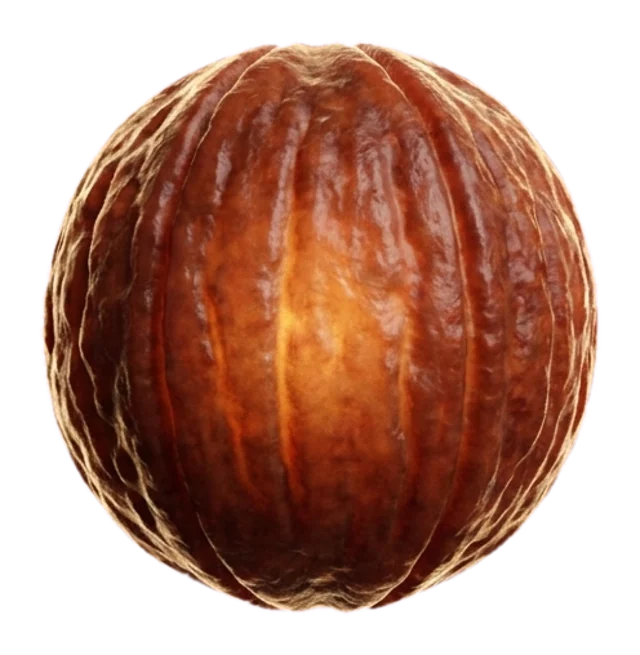
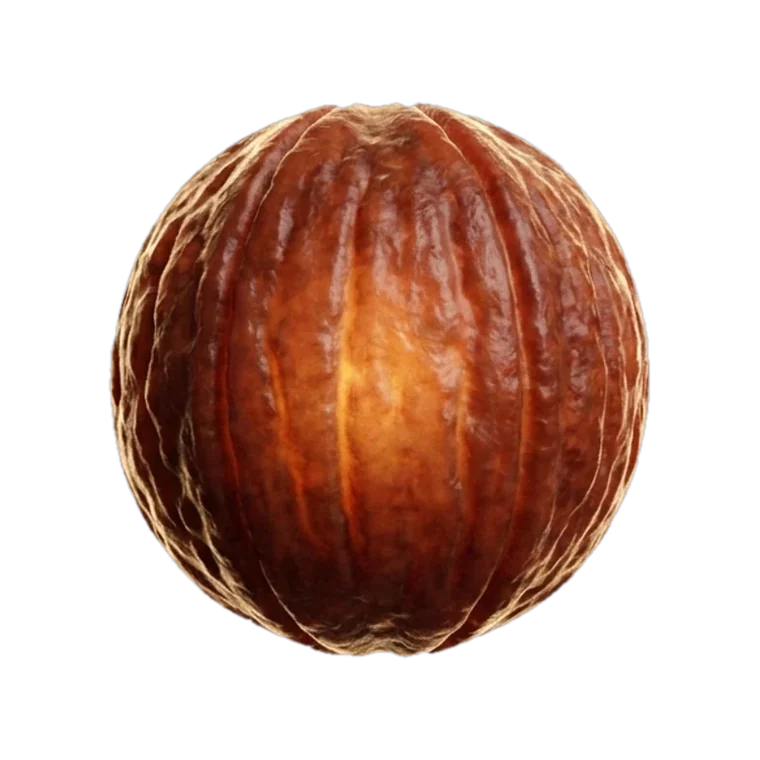
Fix broken collection heroes + size every 3D model uniformly
The crystal/gemstone/anklet collection heroes were hardcoded to
t/7/assets/<name> with a stale ?v= hash. Switching those three files to WebP
pointed them at a path that only exists in t/8, so they 404'd and rendered as
broken-image icons. Added a GAA() resolver that reads the live theme's asset
folder off a stylesheet href and routed those three through it, so they follow
the theme instead of a frozen path.

Model sizing was driven by , which scales on height -
a wide bracelet came out huge while a compact crystal looked tiny, and in the
narrow desktop slats the art overflowed the card. Every model is now re-cut
onto an identical 760x760 transparent canvas with its longest side at 74%, and
the tiles use a padded  box, so all eight read at the same weight in
both layouts. Vertical slat labels moved behind the model and dimmed.

tracking/ untouched.

Claude-Session: https://claude.ai/code/session_012qKNPSvbNoGtkrvu7zovDz

diff --git a/assets/gemsaura-custom.js b/assets/gemsaura-custom.js
@@ -1,5 +1,13 @@
 /* GemsAura hero slideshow + custom hamburger mega-menu (draft) */
 (function(){
+  /* Resolve the CURRENT theme's asset folder (t/7, t/8, ...) at runtime off a
+     stylesheet href. Hardcoding t/7 breaks any asset added to a newer theme. */
+  var GAABASE=(function(){
+    var l=document.querySelector('link[href*="/assets/gemsaura-custom.css"]');
+    return l ? l.href.replace(/assets\/gemsaura-custom\.css.*$/, 'assets/')
+             : 'https://cdn.shopify.com/s/files/1/0627/9849/5847/t/7/assets/';
+  })();
+  function GAA(n){ return GAABASE+n; }
   var D=["https://cdn.shopify.com/s/files/1/0627/9849/5847/t/7/assets/bn-zodiac-d.jpg", "https://cdn.shopify.com/s/files/1/0627/9849/5847/t/7/assets/bn-bracelets-d.jpg", "https://cdn.shopify.com/s/files/1/0627/9849/5847/t/7/assets/bn-rudraksha-d.jpg", "https://cdn.shopify.com/s/files/1/0627/9849/5847/t/7/assets/bn-pendants-d.jpg", "https://cdn.shopify.com/s/files/1/0627/9849/5847/t/7/assets/bn-anklets-d.jpg", "https://cdn.shopify.com/s/files/1/0627/9849/5847/t/7/assets/bn-mani-d.jpg"], M=["https://cdn.shopify.com/s/files/1/0627/9849/5847/t/7/assets/bn-zodiac-m.jpg?v=1789704491", "https://cdn.shopify.com/s/files/1/0627/9849/5847/t/7/assets/bn-bracelets-m.jpg?v=1789704496", "https://cdn.shopify.com/s/files/1/0627/9849/5847/t/7/assets/bn-rudraksha-m.jpg?v=1789704501", "https://cdn.shopify.com/s/files/1/0627/9849/5847/t/7/assets/bn-pendants-m.jpg?v=1789704506", "https://cdn.shopify.com/s/files/1/0627/9849/5847/t/7/assets/bn-anklets-m.jpg?v=1789704511", "https://cdn.shopify.com/s/files/1/0627/9849/5847/t/7/assets/bn-mani-m.jpg?v=1789704515"];
   function hero(){
     var h=document.querySelector('#MainContent[data-template="index"] > .shopify-section');
@@ -298,7 +306,7 @@
     if(_isCry && sec){
       sec.style.setProperty('--cat', '#7a5c9e');
       sec.classList.add('ga-coll-hascrystal');
-      var cry=document.createElement('div'); cry.className='ga-coll-crystal'; cry.innerHTML='<img src="https://cdn.shopify.com/s/files/1/0627/9849/5847/t/7/assets/ga-cosmic.webp?v=1789904898" alt="Crystal" loading="lazy">'; sec.appendChild(cry);
+      var cry=document.createElement('div'); cry.className='ga-coll-crystal'; cry.innerHTML='<img src="'+GAA('ga-cosmic.webp')+'" alt="Crystal" loading="lazy">'; sec.appendChild(cry);
       sec.addEventListener('mousemove', function(e){ var rr=sec.getBoundingClientRect(); var img=cry.querySelector('img'); if(!img) return; var px=(e.clientX-rr.left)/rr.width-0.5, py=(e.clientY-rr.top)/rr.height-0.5; img.style.transform='rotateY('+(px*20)+'deg) rotateX('+(-py*20)+'deg)'; });
       sec.addEventListener('mouseleave', function(){ var img=cry.querySelector('img'); if(img) img.style.transform='rotateY(0deg) rotateX(0deg)'; });
     }
@@ -342,7 +350,7 @@
     var _isGem=/\/collections\/gemstones/.test(location.pathname) || /gemstone/i.test(title.textContent||'');
     if(_isGem && sec && !sec.querySelector('.ga-coll-crystal')){
       sec.classList.add('ga-coll-hascrystal');
-      var gem=document.createElement('div'); gem.className='ga-coll-crystal'; gem.innerHTML='<img src="https://cdn.shopify.com/s/files/1/0627/9849/5847/t/7/assets/ga-gemstone.webp?v=1789905498" alt="Gemstone" loading="lazy">'; sec.appendChild(gem);
+      var gem=document.createElement('div'); gem.className='ga-coll-crystal'; gem.innerHTML='<img src="'+GAA('ga-gemstone.webp')+'" alt="Gemstone" loading="lazy">'; sec.appendChild(gem);
       sec.addEventListener('mousemove', function(e){ var rr=sec.getBoundingClientRect(); var img=gem.querySelector('img'); if(!img) return; var px=(e.clientX-rr.left)/rr.width-0.5, py=(e.clientY-rr.top)/rr.height-0.5; img.style.transform='rotateY('+(px*20)+'deg) rotateX('+(-py*20)+'deg)'; });
       sec.addEventListener('mouseleave', function(){ var img=gem.querySelector('img'); if(img) img.style.transform='rotateY(0deg) rotateX(0deg)'; });
     }
@@ -358,7 +366,7 @@
     var _isAnk=/\/collections\/anklet/.test(location.pathname) || /anklet/i.test(title.textContent||'');
     if(_isAnk && sec && !sec.querySelector('.ga-coll-crystal')){
       sec.classList.add('ga-coll-hascrystal');
-      var ank=document.createElement('div'); ank.className='ga-coll-crystal'; ank.innerHTML='<img src="https://cdn.shopify.com/s/files/1/0627/9849/5847/t/7/assets/ga-anklet.webp?v=1789929321" alt="Anklet" loading="lazy">'; sec.appendChild(ank);
+      var ank=document.createElement('div'); ank.className='ga-coll-crystal'; ank.innerHTML='<img src="'+GAA('ga-anklet.webp')+'" alt="Anklet" loading="lazy">'; sec.appendChild(ank);
       sec.addEventListener('mousemove', function(e){ var rr=sec.getBoundingClientRect(); var img=ank.querySelector('img'); if(!img) return; var px=(e.clientX-rr.left)/rr.width-0.5, py=(e.clientY-rr.top)/rr.height-0.5; img.style.transform='rotateY('+(px*20)+'deg) rotateX('+(-py*20)+'deg)'; });
       sec.addEventListener('mouseleave', function(){ var img=ank.querySelector('img'); if(img) img.style.transform='rotateY(0deg) rotateX(0deg)'; });
     }

diff --git a/assets/gemsaura-custom.css b/assets/gemsaura-custom.css
@@ -1889,10 +1889,14 @@ product-card, .ga-ap{ }
     color-mix(in srgb, var(--gac,#7a5c9e) 9%, #ffffff) 52%,
     color-mix(in srgb, var(--gac,#7a5c9e) 20%, #ffffff) 100%) !important;
 }
+/* Every model now ships on an identical 760x760 canvas at the same scale, so a
+   padded `contain` box renders them all at matching visual weight, and nothing
+   overflows the narrow desktop slats. */
 .ga-ap-im{
-  background-size:auto 52% !important;
+  inset:11% 10% 27% 10% !important;
+  background-size:contain !important;
   background-repeat:no-repeat !important;
-  background-position:center 40% !important;
+  background-position:center center !important;
   transform:none !important;
   filter:drop-shadow(0 14px 18px rgba(30,22,14,.18));
   transition:transform .55s cubic-bezier(.2,.7,.2,1);
@@ -1901,6 +1905,15 @@ product-card, .ga-ap{ }
 .ga-ap-shade{ display:none !important; }
 
 @media(max-width:820px){
-  .ga-ap-im{ background-size:auto 56% !important; background-position:center 34% !important; }
+  .ga-ap-im{ inset:8% 9% 32% 9% !important; background-size:contain !important; background-position:center center !important; }
   .ga-ap-lb{ padding:0 11px 9px !important; }
 }
+
+
+/* Narrow desktop slats: the vertical category word sits behind the model, so
+   fade it back and let the model own the centre. */
+.ga-accord:hover .ga-ap:not(:hover) .ga-ap-vt,
+.ga-accord:not(:hover) .ga-ap:not(:first-child) .ga-ap-vt{ opacity:.55; }
+.ga-ap-vt{ z-index:1 !important; }
+.ga-ap-im{ z-index:2 !important; }
+.ga-ap-lb{ z-index:3 !important; }
